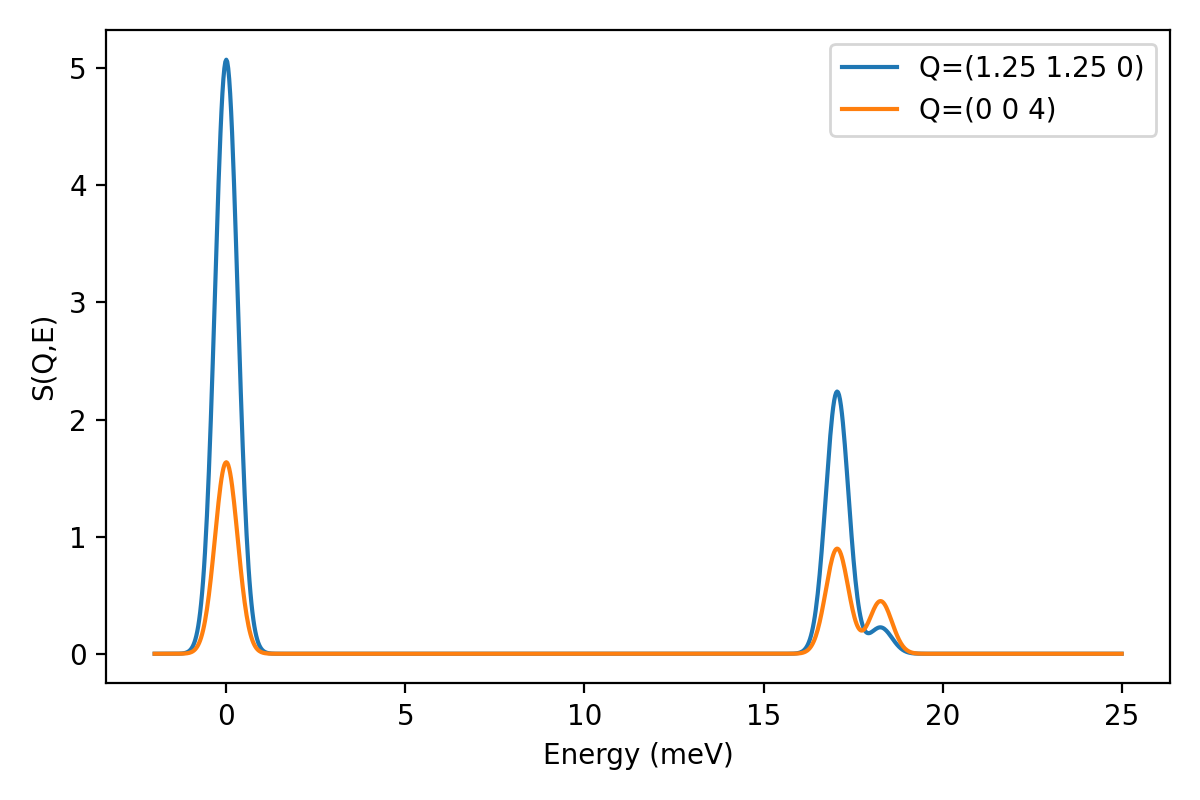
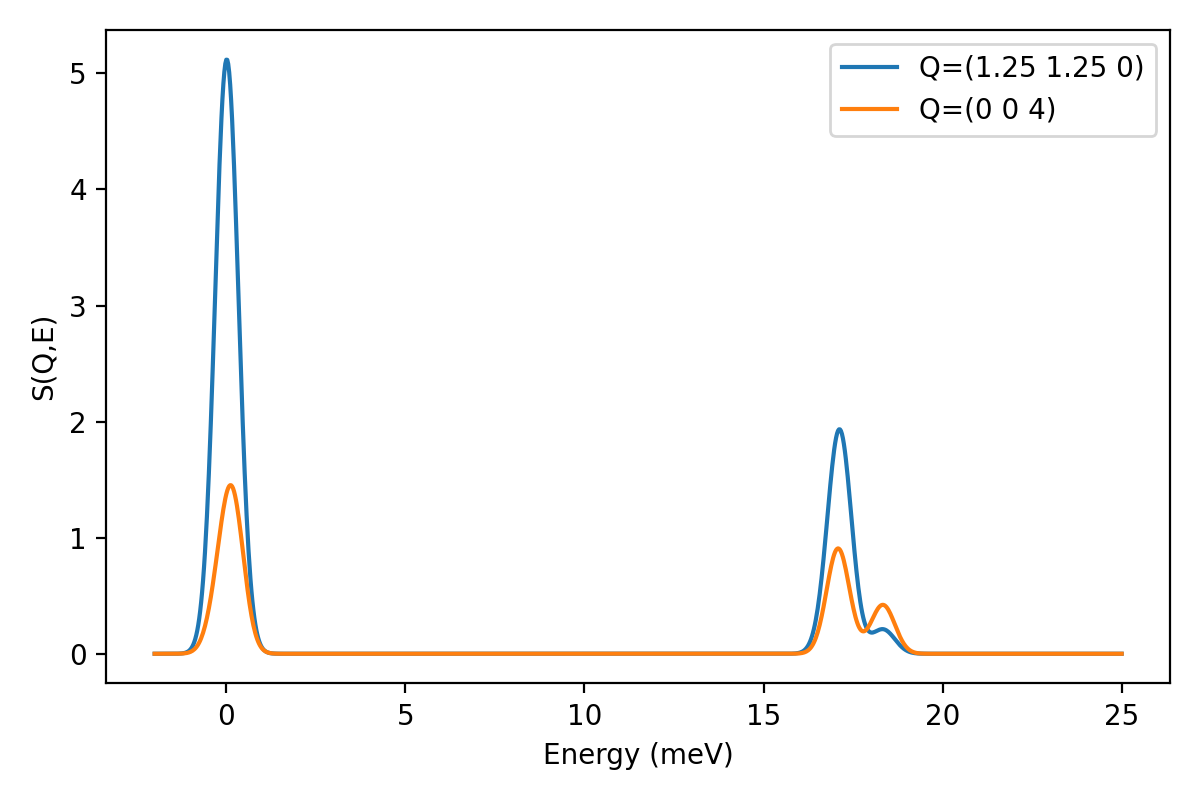
Fix CeCu2Ge2 example

diff --git a/examples/CeCu2Ge2.py b/examples/CeCu2Ge2.py
@@ -25,7 +25,8 @@ num_simulations = 100000
 # Calculated results: E1=7.091 meV, E2=11.772 meV
 
 CEFpars = ms.crysfipy.CEFpars('D4', [-10.26, -0.056, 2.67], 'K')
-cefion = ms.crysfipy.CEFion(ms.crysfipy.Ion('Ce'),[0,0,0], CEFpars)
+cefion = ms.crysfipy.CEFion(ms.crysfipy.Ion('Ce'),[0,0,0], CEFpars, diagonalize=False)
+cefion.diagonalize(shiftToZero=False)
 
 print(cefion.cfp)
 print(cefion)
@@ -44,7 +45,7 @@ if calculateTAS:
     for hkl in [1.25,1.25,0], [0,0,4]:
         
         label = f'Q=({hkl[0]} {hkl[1]} {hkl[2]})'
-        Q = lattice.hkl2k(hkl)
+        Q = lattice.hkl2Q(hkl)
         De, Dint = ms.crysfipy.neutronint(cefion,temperature, Q=Q, Ei=1.1*np.max(e), scheme='single-crystal')
        
         
